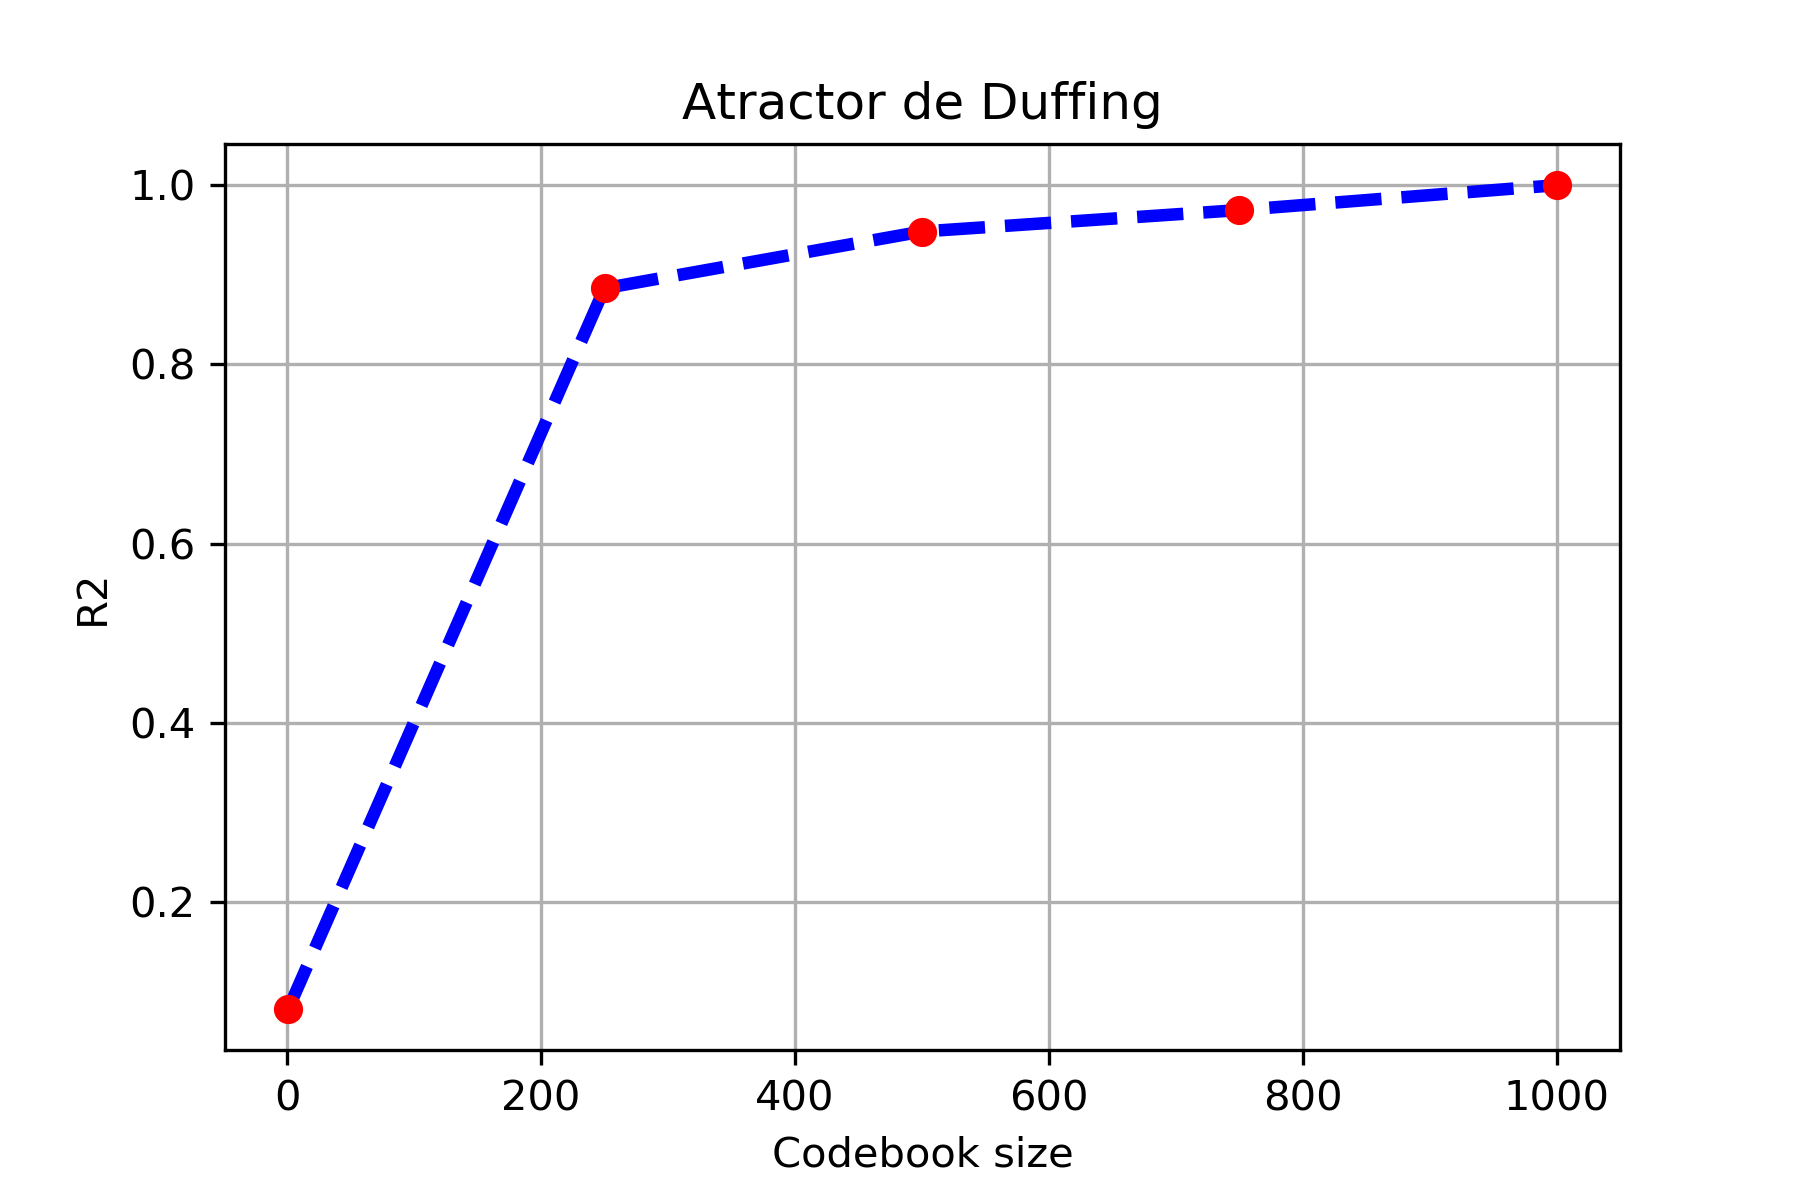
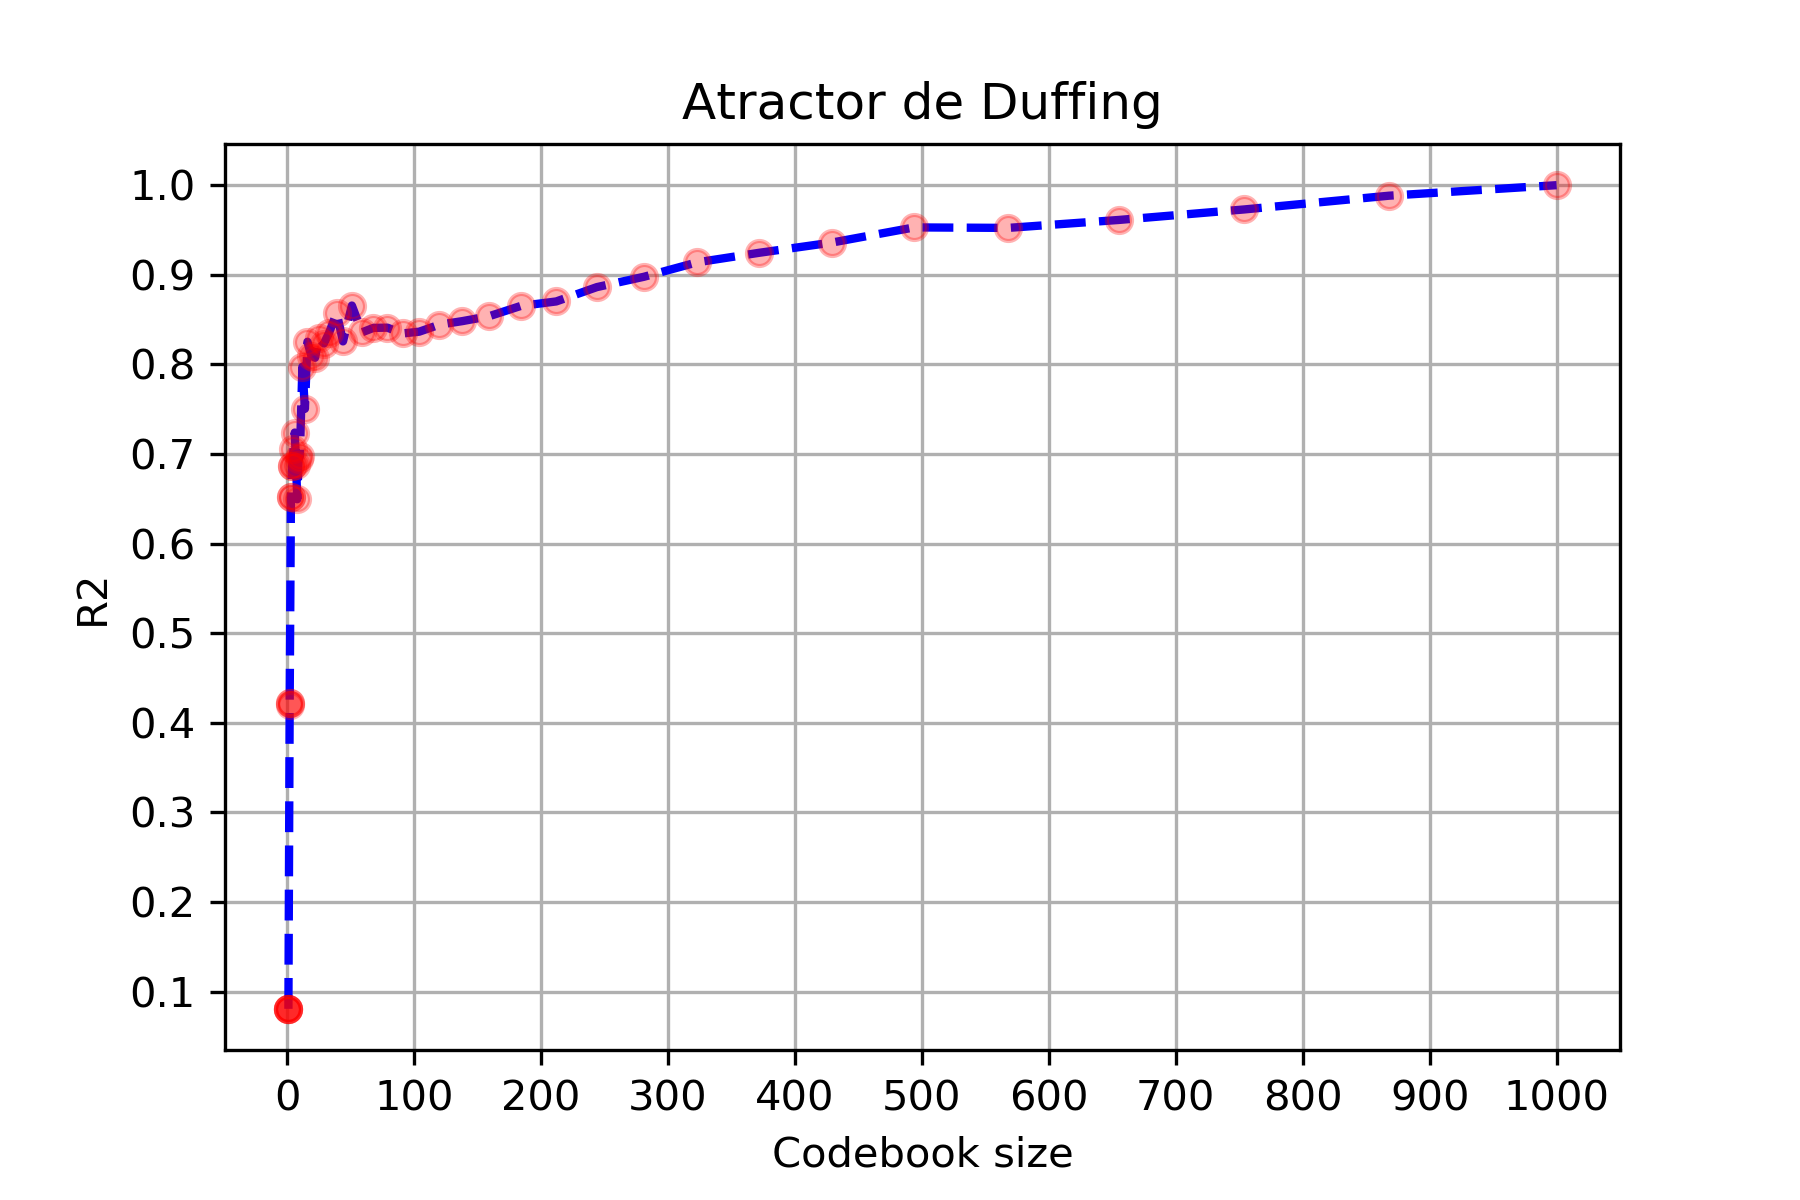
Algoritmo listo para depurar

diff --git a/pruebaCurvasQKLMS.py b/pruebaCurvasQKLMS.py
@@ -1,0 +1,109 @@
+# -*- coding: utf-8 -*-
+"""
+Created on Mon Aug 31 16:08:02 2020
+
+@author: USUARIO
+"""
+
+import numpy as np
+import TimeSeriesGenerator as tsg
+import KAF
+from sklearn.metrics import r2_score
+"""NUMERO DE MUESTRAS PARA LAS PRUEBAS"""
+samples = 1000
+
+"""
+    ATRACTOR DE LORENZ
+
+"""
+x, y, z = tsg.chaoticSystem(samples=samples+10,systemType="lorenz")
+ua = x[-samples-2:-2].reshape(-1,1)
+ub = y[-samples-3:-3].reshape(-1,1)
+u = np.concatenate((ua,ub), axis=1) # INPUT
+d = z[-samples-1:-1].reshape(-1,1) #TARGET
+
+out1 = []
+out2 = []
+r2_filtro1 = []
+r2_filtro2 = []
+CB_size1 = []
+CB_size2 = []
+sigma_track = []
+epsilon_track = []
+
+# epsilonList = np.logspace(0, 2, 20)
+# sigmaList = np.logspace(0, 2, 20)
+
+epsilonList = np.linspace(1, 25, 20)
+sigmaList = np.linspace(10,60,20)
+
+           
+for sigma in sigmaList:
+    for epsilon in epsilonList:
+        filtro1 = KAF.QKLMS(epsilon=epsilon,sigma=sigma)
+        filtro2 = KAF.QKLMS2(epsilon=epsilon, sigma=sigma)
+        sigma_track.append(sigma)
+        epsilon_track.append(epsilon)
+        for i in range(len(d)):
+            out1.append(filtro1.evaluate(u[i],d[i]))                        
+            out2.append(filtro2.evaluate(u[i],d[i]))
+            
+        #Remove NoneTypes that result from initialization 
+        out1 = [j.item() for j in out1 if j is not None]
+        out2 = [j.item() for j in out2 if j is not None]
+             
+        r2_filtro1.append(r2_score(d[1:], out1))
+        r2_filtro2.append(r2_score(d[1:], out2))
+        CB_size1.append(len(filtro1.CB))
+        CB_size2.append(len(filtro2.CB))
+        out1.clear()
+        out2.clear()
+        
+
+Ns = len(sigmaList)
+Ne = len(epsilonList)
+r2_filtro1_ = np.asarray(r2_filtro1).reshape([Ns,Ne])
+CB_size1_ = np.asarray(CB_size1).reshape([Ns,Ne])  
+r2_filtro2_ = np.asarray(r2_filtro2).reshape([Ns,Ne])
+CB_size2_ = np.asarray(CB_size2).reshape([Ns,Ne])
+
+import matplotlib as mpl
+import matplotlib.pylab as pl
+import matplotlib.pyplot as plt
+
+n = len(sigmaList)
+colors = pl.cm.jet(np.linspace(0,1,n))
+
+fig, ax = plt.subplots()
+norm = mpl.colors.Normalize(min(sigmaList),max(sigmaList))
+
+for i in range(Ns):    
+    im = ax.plot(CB_size2_[i],r2_filtro2_[i], color=colors[i])
+plt.ylim([0,1])
+plt.ylabel("R2")
+plt.xlabel("Codebook Size")
+plt.title("QKLMS 2 ")
+cbar = fig.colorbar(mpl.cm.ScalarMappable(norm=norm, cmap='jet'), ax=ax)
+cbar.set_label('sigma')
+# plt.savefig("pruebasGMM/MQKLMS_sig_10_100_2.png", dpi = 300)
+plt.show()    
+
+#GRAFICOS
+n = len(sigmaList)
+colors = pl.cm.jet(np.linspace(0,1,n))
+
+fig, ax = plt.subplots()
+norm = mpl.colors.Normalize(min(sigmaList),max(sigmaList))
+norm.autoscale(sigmaList)
+
+for i in range(Ns):    
+    im = ax.plot(CB_size1_[i],r2_filtro1_[i], color=colors[i])
+plt.ylim([0,1])
+plt.ylabel("R2")
+plt.xlabel("Codebook Size")
+plt.title("QKLMS")
+cbar = fig.colorbar(mpl.cm.ScalarMappable(norm=norm, cmap='jet'), ax=ax)
+cbar.set_label('sigma')
+# plt.savefig("pruebasGMM/QKLMS_sig_10_100_2.png", dpi = 300)
+plt.show()    
+

diff --git a/gmmSearchDB.py b/gmmSearchDB.py
@@ -11,7 +11,10 @@ def save_plot(search,clusters,titulo,imagen):
     import matplotlib as mpl
     mpl.rcParams['lines.linewidth'] = 2
     mpl.rcParams['lines.linestyle'] = '--'
-    plt.plot(clusters.astype(np.int64),r2scores,'b', clusters.astype(np.int64),r2scores,'ro' )
+    plt.yticks(np.linspace(0,1,11))
+    plt.xticks(np.linspace(0,samples,11))
+    plt.plot(clusters.astype(np.int64),r2scores,'b')
+    plt.plot(clusters.astype(np.int64),r2scores,'ro',alpha=0.3 )
     plt.ylabel("R2")
     plt.xlabel("Codebook size")
     plt.title(titulo)
@@ -25,8 +28,7 @@ import TimeSeriesGenerator as tsg
 import testSystems
 """NUMERO DE MUESTRAS PARA LAS PRUEBAS"""
 samples = 1000
-clusters = np.linspace(1, samples, int(samples/30))
-
+clusters = np.logspace(0,3,int(samples/20))
 
 """
     ATRACTOR DE LORENZ

diff --git a/KAF.py b/KAF.py
@@ -201,7 +201,6 @@ class GMM_KLMS:
         F = [cdist(u, self.gmm.means_[c].reshape(1,-1), 'mahalanobis', VI=self.gmm.precisions_[c]) for c in range(self.gmm.n_components)]
         F = [np.exp((-f**2)/2) for f in F]
         phi = np.concatenate(F,axis=1)
-        
         return self.reg.predict(phi)
         
         # y,d = self.__output(u)
